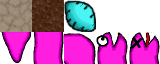
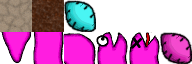
Add burrow ability and food colors which provide abilities.

diff --git a/client/js/wormy-client.js b/client/js/wormy-client.js
@@ -356,6 +356,7 @@ wormy.Client = function() {
     dispatchQueuedCommands: function() {
       for (var i = 0; i < this.localPlayers_.length; i++) {
         if (this.localPlayers_[i].w >= 0 && // If this is a playing player
+            this.state_.p[this.localPlayers_[i].w] && // in the game
             this.state_.p[this.localPlayers_[i].w].m) { // which has just moved
           this.localPlayers_[i].d = 0;
           if (this.localPlayers_[i].queue) { // and has a queued command.
@@ -387,7 +388,7 @@ wormy.Client = function() {
       if (this.localPlayers_[i].d) {
         this.localPlayers_[i].queue = j + 1;
       } else {
-        if ((j + 2) % 4 == this.state_.p[this.localPlayers_[i].w].t[0][2])
+        if ((j + 2) % 4 == this.state_.p[this.localPlayers_[i].w].t[0][3])
           return;
         this.localPlayers_[i].d = 1;
         this.changeDirection(i, j);
@@ -714,7 +715,7 @@ wormy.Client = function() {
           // state.
           while (this.canvasState.length > 0) {
             var pos = this.canvasState.pop();
-            var s = state.l[pos[0]][pos[1]];
+            var s = state.l[pos[0]][pos[1]][1];
             ctx.drawImage(spriteSheet, s == 1 ? spriteSize : 0, 0, spriteSize, spriteSize,
                           pos[1] * blockSize, pos[0] * blockSize, blockSize, blockSize);
           }
@@ -722,7 +723,7 @@ wormy.Client = function() {
           this.canvasState = [];
           for (var i = 0; i < x2 - x1; i++) {
             for (var j = 0; j < y2 - y1; j++) {
-              var s = state.l[y1 + j][x1 + i];
+              var s = state.l[y1 + j][x1 + i][1];
               if (s != 1) {
                 ctx.drawImage(spriteSheet, 0, 0, spriteSize, spriteSize,
                               i * blockSize, j * blockSize, blockSize, blockSize);
@@ -737,62 +738,67 @@ wormy.Client = function() {
         for (var i = 0; i < state.food.length; i++) {
           this.canvasState.push(state.food[i]);
           ctx.drawImage(spriteSheet,
-                        2 * spriteSize, 0, spriteSize, spriteSize,
+                        5 * spriteSize, (1 + state.food[i][2]) * spriteSize, spriteSize, spriteSize,
                         state.food[i][1] * blockSize, state.food[i][0] * blockSize, blockSize, blockSize);
         }
         // Then draw the worms.
-        for (var i = 0; i < state.p.length; i++) {
-          for (var j = 0; j < state.p[i].t.length; j++) {
-            ctx.save();
-            this.canvasState.push(state.p[i].t[j])
-            ctx.translate(state.p[i].t[j][1] * blockSize + blockSize/2,
-                          state.p[i].t[j][0] * blockSize + blockSize/2);
-            var rotate = state.p[i].t[j][2];
-            var sprite = 1;
-            if (j == 0) {
-              // If we are greater than 1 length, use rotation from previous
-              // piece to avoid continuity problems.
-              if (state.p[i].t.length > j + 1) {
-                rotate = state.p[i].t[j + 1][2];
+        for (var layer = 0; layer < 2; layer++) {
+          ctx.globalAlpha = layer == 0 ? 0.5 : 1;
+          for (var i = 0; i < state.p.length; i++) {
+            for (var j = 0; j < state.p[i].t.length; j++) {
+              if (state.p[i].t[j][2] != layer)
+                continue;
+              ctx.save();
+              this.canvasState.push(state.p[i].t[j])
+              ctx.translate(state.p[i].t[j][1] * blockSize + blockSize/2,
+                            state.p[i].t[j][0] * blockSize + blockSize/2);
+              var rotate = state.p[i].t[j][3];
+              var sprite = 1;
+              if (j == 0) {
+                // If we are greater than 1 length, use rotation from previous
+                // piece to avoid continuity problems.
+                if (state.p[i].t.length > j + 1) {
+                  rotate = state.p[i].t[j + 1][3];
+                }
+                if (rotate == 3)
+                  ctx.scale(1, -1);
+                if (state.p[i].s == 0)
+                  sprite = 3;
+                else
+                  sprite = 4;
+              } else if (j == state.p[i].t.length - 1) {
+                sprite = 0;
+              } else if (state.p[i].t[j + 1][3] != state.p[i].t[j][3]) {
+                sprite = 2;
+                if ((state.p[i].t[j][3] + 1) % 4 ==
+                        state.p[i].t[j + 1][3])
+                  rotate += 1;
+                else
+                  rotate += 2;
               }
-              if (rotate == 3)
-                ctx.scale(1, -1);
-              if (state.p[i].s == 0)
-                sprite = 3;
-              else
-                sprite = 4;
-            } else if (j == state.p[i].t.length - 1) {
-              sprite = 0;
-            } else if (state.p[i].t[j + 1][2] != state.p[i].t[j][2]) {
-              sprite = 2;
-              if ((state.p[i].t[j][2] + 1) % 4 ==
-                      state.p[i].t[j + 1][2])
-                rotate += 1;
-              else
-                rotate += 2;
-            }
-            ctx.rotate(Math.PI / 2 * rotate);
-            // As a special case we draw the tail sprite under the head for
-            // length 1 to avoid a discontinuous snake.
-            if (state.p[i].t.length == 1) {
-              var tailPos = [state.p[i].t[j][0], state.p[i].t[j][1]];
-              tailPos[0] -= this.moveVectors[state.p[i].t[j][2]][0];
-              tailPos[1] -= this.moveVectors[state.p[i].t[j][2]][1];
-              this.canvasState.push(tailPos);
+              ctx.rotate(Math.PI / 2 * rotate);
+              // As a special case we draw the tail sprite under the head for
+              // length 1 to avoid a discontinuous snake.
+              if (state.p[i].t.length == 1) {
+                var tailPos = [state.p[i].t[j][0], state.p[i].t[j][1]];
+                tailPos[0] -= this.moveVectors[state.p[i].t[j][3]][0];
+                tailPos[1] -= this.moveVectors[state.p[i].t[j][3]][1];
+                this.canvasState.push(tailPos);
+                ctx.drawImage(spriteSheet,
+                              0,
+                              (2 + i) * spriteSize, // Player
+                              spriteSize, spriteSize,
+                              -blockSize/2, blockSize/2,
+                              blockSize,blockSize);
+              }
               ctx.drawImage(spriteSheet,
-                            0,
+                            spriteSize * sprite,
                             (2 + i) * spriteSize, // Player
                             spriteSize, spriteSize,
-                            -blockSize/2, blockSize/2,
+                            -blockSize/2, -blockSize/2,
                             blockSize,blockSize);
+              ctx.restore();
             }
-            ctx.drawImage(spriteSheet,
-                          spriteSize * sprite,
-                          (2 + i) * spriteSize, // Player
-                          spriteSize, spriteSize,
-                          -blockSize/2, -blockSize/2,
-                          blockSize,blockSize);
-            ctx.restore();
           }
         }
       } else {
@@ -801,7 +807,7 @@ wormy.Client = function() {
           // state.
           while (this.canvasState.length > 0) {
             var pos = this.canvasState.pop();
-            var s = state.l[pos[0]][pos[1]];
+            var s = state.l[pos[0]][pos[1]][1];
             ctx.fillStyle = drawStyle[state.l[pos[0]][pos[1]]];
             ctx.fillRect(pos[1] * blockSize,
                          pos[0] * blockSize,
@@ -810,7 +816,7 @@ wormy.Client = function() {
           }
           for (var i = 0; i < state.food.length; i++) {
             this.canvasState.push(state.food[i]);
-            ctx.fillStyle = drawStyle[state.l[state.food[i][0]][state.food[i][1]]];
+            ctx.fillStyle = drawStyle[state.l[state.food[i][0]][state.food[i][1]][1]];
             ctx.fillRect(state.food[i][1] * blockSize,
                          state.food[i][0] * blockSize,
                          blockSize,
@@ -831,9 +837,9 @@ wormy.Client = function() {
           this.canvasState = [];
           for (var i = 0; i < x2 - x1; i++) {
             for (var j = 0; j < y2 - y1; j++) {
-              if (state.l[y1 + j][x1 + i] > 1)
+              if (state.l[y1 + j][x1 + i][1] > 1)
                 this.canvasState.push([y1 + j, x1 + i]);
-              ctx.fillStyle = drawStyle[state.l[y1 + j][x1 + i]];
+              ctx.fillStyle = drawStyle[state.l[y1 + j][x1 + i][1]];
               ctx.fillRect(i * blockSize,
                            j * blockSize,
                            blockSize,

diff --git a/client/js/wormy-common.js b/client/js/wormy-common.js
@@ -125,8 +125,12 @@ var wormy = function() {
         name: 'none', // Placeholder for no power.
       }, {
         name: 'speed',
-        duration: 2*50, // 50 squares of fast movement when fully charged.
-        recharge: 3*100 // 100 squares of regular movement to recharge.
+        duration: 2*100, // 100 squares of fast movement when fully charged.
+        recharge: 3*50   // 50 squares of regular movement to recharge.
+      }, {
+        name: 'burrow',
+        duration: 2*20,
+        recharge: 3*50
       }
     ],
 
@@ -259,7 +263,7 @@ var wormy = function() {
       if (g.p.length <= playerNo)
         return;
       for (var i = 0; i < g.p[playerNo].length; i++) {
-        g.l[g.p[playerNo].t[i][0]][g.p[playerNo].t[i][1]] = 0;
+        g.l[g.p[playerNo].t[i][0]][g.p[playerNo].t[i][1]][g.p[playerNo].t[i][2]] = 0;
       }
     },
 
@@ -269,7 +273,7 @@ var wormy = function() {
         if (md[i].t == 'm') { // Movement
           // Only change direction if alive.
           if (g.p[md[i].p].s == 0)
-            g.p[md[i].p].t[0][2] = md[i].d;
+            g.p[md[i].p].t[0][3] = md[i].d;
         } else if (md[i].t == 'p') { // Use power.
           g.p[md[i].p].f = md[i].f;
         } else if (md[i].t == 'a') { // Add player.
@@ -283,7 +287,7 @@ var wormy = function() {
             p: 1, // Power (speed)
             f: 0  // Using power?
           };
-          g.l[g.p[md[i].p].t[0][0]][g.p[md[i].p].t[0][1]] = md[i].p + 3;
+          g.l[g.p[md[i].p].t[0][0]][g.p[md[i].p].t[0][1]][1] = md[i].p + 3;
         } else if (md[i].t == 'd') { // Disconnect.
           if (g.p.length > md[i].p) {
             g.p[md[i].p].s = 2;
@@ -305,16 +309,16 @@ var wormy = function() {
               p: 1,
               f: 1
             };
-            g.l[g.p[md[i].p].t[0][0]][g.p[md[i].p].t[0][1]] = md[i].p + 3;
+            g.l[g.p[md[i].p].t[0][0]][g.p[md[i].p].t[0][1]][1] = md[i].p + 3;
           }
         } else if (md[i].t == 'f') {
           // FOOD!
-          if (g.l[md[i].fy][md[i].fx] != 0) {
+          if (g.l[md[i].fy][md[i].fx][1] != 0) {
             if (is_final)
               this.foodEaten(-1);
           } else {
-            g.l[md[i].fy][md[i].fx] = 2;
-            g.food.push([md[i].fy, md[i].fx]);
+            g.l[md[i].fy][md[i].fx][1] = 2;
+            g.food.push([md[i].fy, md[i].fx, md[i].ft]);
           }
         }
       }
@@ -349,14 +353,20 @@ var wormy = function() {
           continue;
 
         if (!g.p[pi].s) {
-          var next = [(g.p[pi].t[0][0] + this.moveVectors[g.p[pi].t[0][2]][0] + h) % h,
-                      (g.p[pi].t[0][1] + this.moveVectors[g.p[pi].t[0][2]][1] + w) % w,
-                      g.p[pi].t[0][2]];
-          if (g.l[next[0]][next[1]] == 2) {
-            g.l[next[0]][next[1]] = 0;
+          var next = [(g.p[pi].t[0][0] + this.moveVectors[g.p[pi].t[0][3]][0] + h) % h,
+                      (g.p[pi].t[0][1] + this.moveVectors[g.p[pi].t[0][3]][1] + w) % w,
+                      1, // Level 1 by default.
+                      g.p[pi].t[0][3]];
+          // If burrowed, next position is underground.
+          if (g.p[pi].p == 2 && g.p[pi].f)
+            next[2] = 0;
+          if (g.l[next[0]][next[1]][next[2]] == 2) {
+            g.l[next[0]][next[1]][1] = 0;
             g.p[pi].l += tailInc;
             for (var j = 0; j < g.food.length; j++) {
               if (g.food[j][0] == next[0] && g.food[j][1] == next[1]) {
+                g.p[pi].p = g.food[j][2];
+                g.p[pi].f = 0;
                 g.food.splice(j, 1);
                 j--;
               }
@@ -365,18 +375,18 @@ var wormy = function() {
               this.foodEaten(pi);
             }
           }
-          if (g.l[next[0]][next[1]]) {
+          if (g.l[next[0]][next[1]][next[2]]) {
             g.p[pi].s = 1;
             g.p[pi].l = 0;
           } else {
             g.p[pi].t.splice(0, 0, next);
-            g.l[next[0]][next[1]] = pi + 3;
+            g.l[next[0]][next[1]][next[2]] = pi + 3;
           }
         }
         if (g.p[pi].t.length && (g.p[pi].s ||
                                 g.p[pi].t.length > g.p[pi].l)) {
           var tail = g.p[pi].t.pop();
-          g.l[tail[0]][tail[1]] = 0;
+          g.l[tail[0]][tail[1]][tail[2]] = 0;
         }
       }
       g.f++;

diff --git a/client/js/wormy-server.js b/client/js/wormy-server.js
@@ -84,7 +84,8 @@ wormy.Server = function() {
         this.deliverDelayedCommand({
             t: 'f',
             fx: l[1],
-            fy: l[0]});
+            fy: l[0],
+            ft: Math.floor(Math.random() * (this.powers.length - 1)) + 1});
       }
     },
 
@@ -193,10 +194,10 @@ wormy.Server = function() {
         var h = this.state_.l.length;
         for (j = 0; j < runLength; j++) {
           if (this.state_.l[(y + j*this.moveVectors[d][0] + h) % h]
-                           [(x + j*this.moveVectors[d][1] + w) % w] != 0) break;
+                           [(x + j*this.moveVectors[d][1] + w) % w][1] != 0) break;
         }
         if (j == runLength) {
-          return [y, x, d];
+          return [y, x, 1, d];
         }
       }
       return null;

diff --git a/client/js/wormy-levels.js b/client/js/wormy-levels.js
@@ -3,7 +3,8 @@ function Map(w, h) {
   for (var i = 0; i < h; i++) {
     this.data.push([]);
     for (var j = 0; j < w; j++) {
-      this.data[i].push((i == 0 || j == 0 | i == h - 1 | j == w - 1 ? 1 : 0));
+      this.data[i].push([0, 0, 0]);
+      this.data[i][j][1] = (i == 0 || j == 0 | i == h - 1 | j == w - 1 ? 1 : 0);
     }
   }
 }
@@ -12,7 +13,7 @@ Map.prototype = {
   drawLine: function(x, y, dx, dy, l, c) {
     if (c === undefined) c = 1;
     for (var i = 0; i < l; i++) {
-      this.data[y][x] = c;
+      this.data[y][x][1] = c;
       x += dx;
       y += dy;
     }
